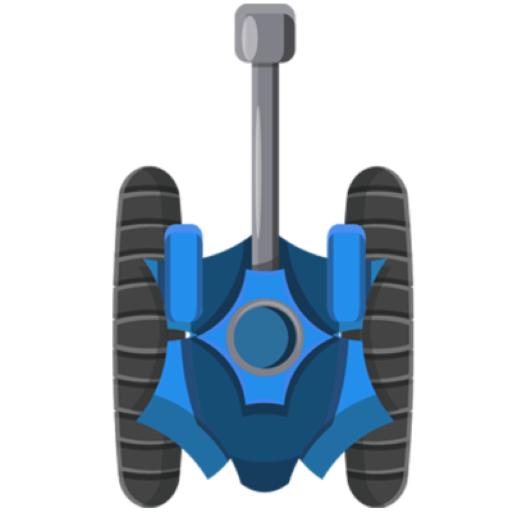
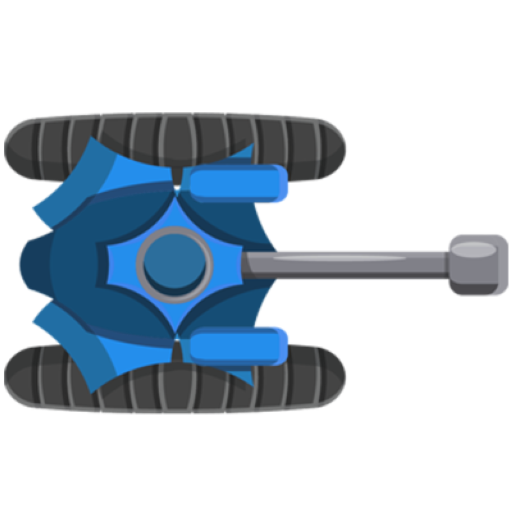
avance

diff --git a/Game.h b/Game.h
@@ -2,6 +2,7 @@
 #include "Tank.h"
 #include "Bullet.h"
 #include <vector>
+#include <cmath>
 
 class Game {
 private:
@@ -10,10 +11,14 @@ private:
     Tank player2;
     std::vector<Bullet> bullets;
     sf::Texture bulletTexture;
+    const float movementSpeed = 1.0f;  // Velocidad de movimiento
+    const float rotationSpeed = 0.3f;  // Velocidad de rotación
 
 public:
     // Constructor
-    Game() : window(sf::VideoMode(1500, 1100), "Tanks Multiplayer"), player1("tank1.png", 1, 1), player2("tank2.png", 1200, 800) {
+    Game() : window(sf::VideoMode(1500, 1100), "Tanks Multiplayer"), 
+             player1("tank1.png", 700, 300), 
+             player2("tank2.png", 600, 200) {
         if (!bulletTexture.loadFromFile("Bullet.png")) {
             // Handle error
         }
@@ -29,6 +34,11 @@ public:
     }
 
 private:
+    // Función auxiliar para convertir grados a radianes
+    float degreesToRadians(float degrees) {
+        return degrees * (3.14159265359f / 180.0f);
+    }
+
     // Procesar los eventos (teclas, cierre de ventana, etc.)
     void processEvents() {
         sf::Event event;
@@ -40,37 +50,45 @@ private:
         
         // Controles de jugador 1
         if (sf::Keyboard::isKeyPressed(sf::Keyboard::W)) {
-            player1.move(0, -1);  // Arriba
+            float angleRadians = degreesToRadians(player1.sprite.getRotation());
+            float dx = std::cos(angleRadians) * movementSpeed;
+            float dy = std::sin(angleRadians) * movementSpeed;
+            player1.move(dx, dy);  // Mueve el tanque hacia adelante
         }
         if (sf::Keyboard::isKeyPressed(sf::Keyboard::S)) {
-            player1.move(0, 1);   // Abajo
+            float angleRadians = degreesToRadians(player1.sprite.getRotation());
+            float dx = std::cos(angleRadians) * -movementSpeed;
+            float dy = std::sin(angleRadians) * -movementSpeed;
+            player1.move(dx, dy);  // Mueve el tanque hacia atrás
         }
         if (sf::Keyboard::isKeyPressed(sf::Keyboard::A)) {
-            player1.move(-1,0);
-            player1.inRotate();  // Izquierda
+            player1.rotate(-rotationSpeed);  // Rotación hacia la izquierda
         }
         if (sf::Keyboard::isKeyPressed(sf::Keyboard::D)) {
-            player1.move(1, 0);  
-            player1.rotate(); // Derecha
+            player1.rotate(rotationSpeed);   // Rotación hacia la derecha
         }
         if (sf::Keyboard::isKeyPressed(sf::Keyboard::Space)) {
             shootBullet(player1);
         }
-
+        
         // Controles de jugador 2
         if (sf::Keyboard::isKeyPressed(sf::Keyboard::Up)) {
-            player2.move(0, -1);  // Arriba
+            float angleRadians = degreesToRadians(player2.sprite.getRotation());
+            float dx = std::cos(angleRadians) * movementSpeed;
+            float dy = std::sin(angleRadians) * movementSpeed;
+            player2.move(dx, dy);  // Mueve el tanque hacia adelante
         }
         if (sf::Keyboard::isKeyPressed(sf::Keyboard::Down)) {
-            player2.move(0, 1);   // Abajo
+            float angleRadians = degreesToRadians(player2.sprite.getRotation());
+            float dx = std::cos(angleRadians) * -movementSpeed;
+            float dy = std::sin(angleRadians) * -movementSpeed;
+            player2.move(dx, dy);  // Mueve el tanque hacia atrás
         }
         if (sf::Keyboard::isKeyPressed(sf::Keyboard::Left)) {
-            player2.move(-1, 0);
-            player2.inRotate();  // Izquierda
+            player2.rotate(-rotationSpeed);  // Rotación hacia la izquierda
         }
         if (sf::Keyboard::isKeyPressed(sf::Keyboard::Right)) {
-            player2.move(1, 0);   // Derecha
-            player2.rotate();   
+            player2.rotate(rotationSpeed);   // Rotación hacia la derecha
         }
         if (sf::Keyboard::isKeyPressed(sf::Keyboard::Enter)) {
             shootBullet(player2);
@@ -109,7 +127,6 @@ private:
         if (direction.x == 0 && direction.y == 0) {
             direction.x = 1;  // Disparo por defecto
         }
-        bullets.emplace_back("bullet.png", player.sprite.getPosition().x, player.sprite.getPosition().y, direction);
-        
+        bullets.emplace_back("bullet.png", player.sprite.getPosition().x, player.sprite.getPosition().y, direction, player);
     }
 };

diff --git a/Bullet.h b/Bullet.h
@@ -10,18 +10,23 @@ public:
     bool isActive;
 
     // Constructor de la clase Bullet
-    Bullet(const std::string& textureFile, float startX, float startY, sf::Vector2f direction) {
+    Bullet(const std::string& textureFile, float startX, float startY, sf::Vector2f direction, Tank &player) {
         
         if (!texture.loadFromFile(textureFile)) {
             // Manejar error
             std::cerr << "Error loading texture from " << textureFile << std::endl;
         }
         sprite.setTexture(texture);
-        sprite.setPosition(startX, startY);
         
         // Cambiar el tamaño de la bala: 0.3 significa reducir su tamaño al 30%
         sprite.setScale(0.05f, 0.05f);  // Cambiar los factores de escala según prefieras
         ////std::cout << "Bullet Size: " << sprite.getGlobalBounds().width << " x " << sprite.getGlobalBounds().height << std::endl;
+
+        // Calcular la posición de la bala delante del tanque
+        float angle =  (player.sprite.getRotation() * 3.14159265358979323846 / 180.0f);  // Convierte grados a radianes
+        float xOffset = std::cos(angle) * 30; // Ajusta el valor 30 para cambiar la distancia del disparo
+        float yOffset = std::sin(angle) * 30;
+        sprite.setPosition(startX + xOffset, startY + yOffset); 
 
         // Normalizar la dirección y multiplicar por la velocidad
         float length = std::sqrt(direction.x * direction.x + direction.y * direction.y);

diff --git a/Tank.h b/Tank.h
@@ -32,17 +32,11 @@ public:
 }
 
 
-    void rotate() {
-        float rotacion = 1;
-        float rotacionverdadera = rotacion/5;
-        
-        sprite.rotate(rotacionverdadera);
+    // Rotación
+    void rotate(float angle) {
+        sprite.rotate(angle); 
     }
-    void inRotate(){
-        float rotacion = 1;
-        float rotacionverdadera = rotacion/-5;
-        sprite.rotate(rotacionverdadera);
-    }
+    
     // Movimiento
     void move(float offsetX, float offsetY) {
         sprite.move(offsetX * speed, offsetY * speed);
